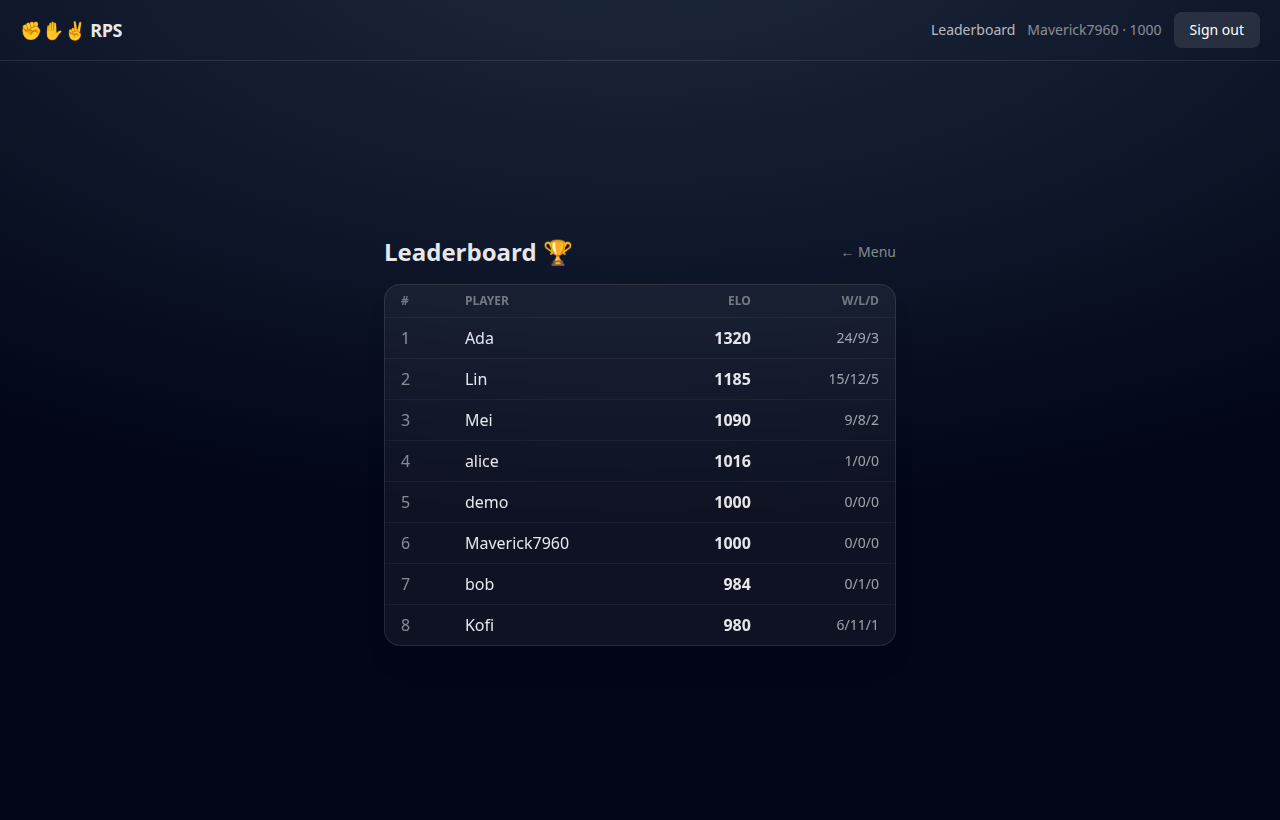
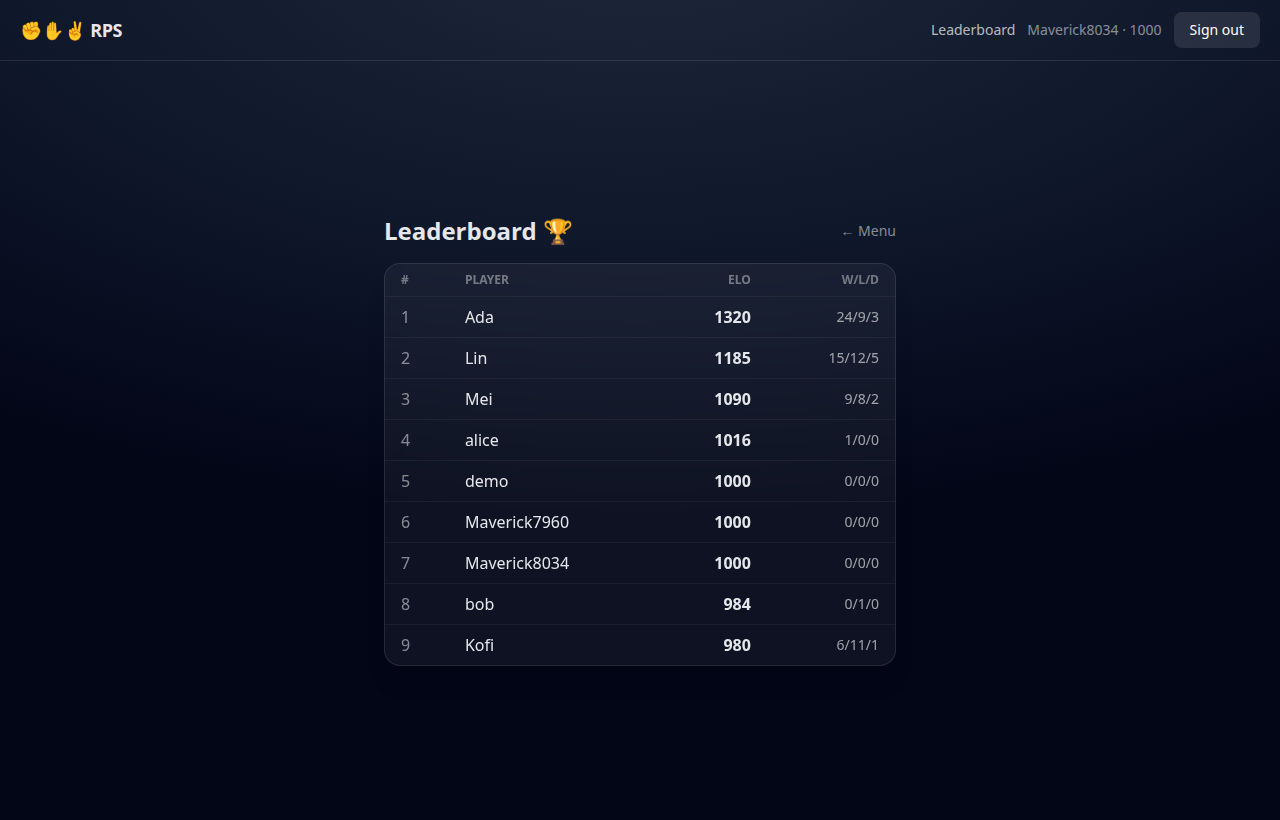
Add flagship-proof hardening, tests, and docs
- MIT LICENSE
- Server unit tests for RPS rules + ELO (node:test); `npm test` script
- Security: helmet (CORP cross-origin), auth rate limiting, 10kb body limit,
  env-driven secure session cookie (COOKIE_SECURE)
- docs/CASE_STUDY.md and docs/DEPLOY.md
- README badges + case-study/deploy links

Note: .github/workflows/ci.yml is present locally but not pushed — the auth
token lacks `workflow` scope. Add it with: gh auth refresh -s workflow && \
git add .github && git commit -m "Add CI" && git push

diff --git a/server/test/gameLogic.test.js b/server/test/gameLogic.test.js
@@ -1,0 +1,75 @@
+// Unit tests for the pure game rules + ELO. Run with: npm test  (node --test)
+import test from "node:test";
+import assert from "node:assert/strict";
+import {
+  resolveRound,
+  computeElo,
+  isValidMove,
+  randomMove,
+  MOVES,
+  ROUNDS_TO_WIN,
+} from "../src/gameLogic.js";
+
+test("rock/paper/scissors beat relationships", () => {
+  assert.equal(resolveRound("rock", "scissors"), "p1");
+  assert.equal(resolveRound("scissors", "paper"), "p1");
+  assert.equal(resolveRound("paper", "rock"), "p1");
+  assert.equal(resolveRound("scissors", "rock"), "p2");
+  assert.equal(resolveRound("paper", "scissors"), "p2");
+  assert.equal(resolveRound("rock", "paper"), "p2");
+});
+
+test("identical moves draw", () => {
+  for (const m of MOVES) assert.equal(resolveRound(m, m), "draw");
+});
+
+test("resolveRound is consistent across all 9 combinations", () => {
+  let p1 = 0,
+    p2 = 0,
+    draw = 0;
+  for (const a of MOVES)
+    for (const b of MOVES) {
+      const r = resolveRound(a, b);
+      if (r === "p1") p1++;
+      else if (r === "p2") p2++;
+      else draw++;
+    }
+  // Symmetric game: equal wins each side, one draw per move.
+  assert.equal(p1, 3);
+  assert.equal(p2, 3);
+  assert.equal(draw, 3);
+});
+
+test("isValidMove guards input", () => {
+  assert.ok(isValidMove("rock"));
+  assert.ok(!isValidMove("dynamite"));
+  assert.ok(!isValidMove(""));
+  assert.ok(!isValidMove(undefined));
+});
+
+test("randomMove always returns a legal move", () => {
+  for (let i = 0; i < 50; i++) assert.ok(MOVES.includes(randomMove()));
+});
+
+test("ELO is zero-sum and symmetric for equal ratings", () => {
+  const win = computeElo(1000, 1000, 1);
+  assert.equal(win.delta, 16); // K=32, expected 0.5 => 32*0.5
+  assert.equal(win.a, 1016);
+  assert.equal(win.b, 984);
+  assert.equal(win.a + win.b, 2000); // conserved
+});
+
+test("ELO rewards beating a stronger opponent more", () => {
+  const upset = computeElo(1000, 1400, 1); // weak beats strong
+  const expected = computeElo(1400, 1000, 1); // strong beats weak
+  assert.ok(upset.delta > expected.delta);
+});
+
+test("ELO draw nudges toward the stronger player's expectation", () => {
+  const draw = computeElo(1000, 1400, 0.5); // underdog draws
+  assert.ok(draw.delta > 0); // underdog gains on a draw
+});
+
+test("best-of-5 target is 3", () => {
+  assert.equal(ROUNDS_TO_WIN, 3);
+});

diff --git a/server/src/index.js b/server/src/index.js
@@ -1,5 +1,7 @@
 import express from "express";
 import cors from "cors";
+import helmet from "helmet";
+import rateLimit from "express-rate-limit";
 import { createServer } from "http";
 import { Server } from "socket.io";
 import { prisma } from "./db.js";
@@ -16,13 +18,24 @@ const ORIGIN = process.env.CLIENT_ORIGIN || "http://localhost:8080";
 
 const app = express();
 app.set("trust proxy", 1);
-app.use(express.json());
+// Secure headers. Allow cross-origin resource policy because the client is
+// served from a different origin (nginx :8080) than this API (:4000).
+app.use(helmet({ crossOriginResourcePolicy: { policy: "cross-origin" } }));
+app.use(express.json({ limit: "10kb" })); // cap body size
 app.use(cors({ origin: ORIGIN, credentials: true }));
 app.use(sessionMiddleware);
 
 app.get("/api/health", (_req, res) => res.json({ ok: true }));
 
-app.use("/api/auth", authRouter);
+// Throttle auth endpoints to blunt credential stuffing / guest-spam.
+const authLimiter = rateLimit({
+  windowMs: 60 * 1000,
+  max: 30,
+  standardHeaders: true,
+  legacyHeaders: false,
+  message: { error: "Too many attempts, please slow down." },
+});
+app.use("/api/auth", authLimiter, authRouter);
 
 app.get("/api/me", async (req, res) => {
   const user = await getSessionUser(req);

diff --git a/server/src/auth.js b/server/src/auth.js
@@ -20,7 +20,8 @@ export const sessionMiddleware = session({
   cookie: {
     httpOnly: true,
     sameSite: "lax",
-    secure: false, // local http; set true behind HTTPS
+    // false for local http; set COOKIE_SECURE=true when serving over HTTPS.
+    secure: process.env.COOKIE_SECURE === "true",
     maxAge: 1000 * 60 * 60 * 24 * 7, // 7 days
   },
 });

diff --git a/docs/CASE_STUDY.md b/docs/CASE_STUDY.md
@@ -1,0 +1,101 @@
+# Case Study — Rock Paper Scissors, Remastered
+
+**One line:** Took a 2023 student project that only ran against a personal
+Firebase account and rebuilt it into a self-hostable realtime multiplayer game
+that anyone can clone and run with a single command.
+
+---
+
+## The problem
+
+The original Rock Paper Scissors was a fun idea with a fragile foundation:
+
+- It **couldn't run without my Firebase project** — the config (and an API key)
+  was hardcoded into the client and a standalone worker. Clone it and it did
+  nothing.
+- The **client judged its own moves**, so the "multiplayer" game was trivially
+  cheatable.
+- **Matchmaking was a separate Node script** polling Firebase Realtime Database
+  listeners — a second moving part with no clear ownership of game state.
+- Two of the three game modes (Ranked, Vs AI) were **unfinished stubs**.
+
+As a portfolio piece it had a fatal flaw: a prospective client or employer
+couldn't actually *run it*, and the parts they could see didn't demonstrate
+sound engineering.
+
+## The goal
+
+Rebuild it so that:
+
+1. **Anyone can run it in one command**, with no cloud account or paid service.
+2. The **server is authoritative** — it owns matchmaking and the rules.
+3. It demonstrates a **credible production stack** end-to-end: realtime,
+   relational data, authentication, and containerized delivery.
+
+## Approach
+
+I treated this as a **remaster, not a port** — keep the game feel, replace the
+foundation. The original three repos (`rps-firebase` client, `RPS-server`
+worker, `RPS-Admin`) were consolidated into one monorepo.
+
+| Concern | Before (2023) | After (remaster) |
+| --- | --- | --- |
+| Realtime sync | Firebase Realtime DB | **Socket.IO** (WebSockets) |
+| Matchmaking | Standalone polling worker | Folded into the **authoritative server** |
+| Persistence | Firestore | **PostgreSQL + Prisma** |
+| Auth | Firebase Auth | **express-session + Postgres + bcrypt**, plus guest play |
+| Move resolution | On the client | **On the server** |
+| Delivery | `gh-pages` static deploy | **Docker Compose** (db + server + client) |
+| Hosting requirement | A Google Cloud project | **None** — fully local |
+
+## Key decisions & trade-offs
+
+- **Socket.IO over a cloud realtime DB.** WebSockets give the same realtime push
+  without renting infrastructure, and let the *server* be the single source of
+  truth for the queue and every match. Trade-off: active-match state lives in
+  server memory, so it's single-instance. I documented the scale path (Socket.IO
+  Redis adapter) rather than over-engineering for a problem this app doesn't yet
+  have.
+- **Session auth instead of JWT or a BaaS.** A previous project used hand-rolled
+  JWT; here I chose library-managed server-side sessions (httpOnly cookie, hash
+  in Postgres). They're simpler to reason about, store nothing sensitive in the
+  browser, and — crucially — the **same session is shared with the Socket.IO
+  handshake**, so realtime connections are authenticated for free. Guest accounts
+  make the app demoable in one click.
+- **A local Vs-AI mode.** Beyond finishing a stubbed feature, this guarantees a
+  solo visitor always gets a working game even with no second player online — an
+  important property for a portfolio demo.
+- **Best-of-5 with server-side ELO.** Turns "click a button" into a game with
+  progression worth showing: ranked results move both players' ratings and are
+  persisted with per-round history.
+
+## Outcome
+
+- `docker compose up --build` brings up Postgres, the server, and the nginx-served
+  client. Open two browser windows and you can play a real match.
+- Verified end-to-end: a ranked match resolves correctly and moves ELO by the
+  expected ±16, persisted to Postgres; casual leaves ratings untouched; auth,
+  guest play, and the leaderboard all work; **zero Firebase remains**.
+- Unit tests cover the rules and ELO; CI runs tests, a client build, and compose
+  validation on every push.
+
+## What this demonstrates
+
+- **Realtime systems** — WebSocket protocol design, server-authoritative state,
+  matchmaking, reconnection/forfeit handling.
+- **Full-stack delivery** — React/TypeScript front end, Node/Express API,
+  relational modeling with Prisma, and a reproducible Docker deployment.
+- **Engineering judgment** — migrating off a vendor without gold-plating,
+  documenting limitations and scale paths instead of hiding them.
+- **Turning legacy code into a maintainable product** — exactly the work a
+  client paying for a "revive/modernize this app" engagement needs.
+
+## If this were a paid engagement, next up
+
+- A hosted live demo (Fly.io / Render + managed Postgres) — see
+  [`DEPLOY.md`](DEPLOY.md).
+- Redis adapter to run multiple server instances behind a load balancer.
+- The admin dashboard (moderation, match inspection) from the original
+  `RPS-Admin`.
+- Reconnect-into-match, private rooms / friend invites, and a short gameplay
+  recording for the README.

diff --git a/docs/DEPLOY.md b/docs/DEPLOY.md
@@ -1,0 +1,56 @@
+# Deployment Guide
+
+The app is local-first, but nothing about it is tied to localhost. This covers
+taking it to a public URL.
+
+## Production checklist
+
+Before exposing it to the internet:
+
+- [ ] Set a strong, random `SESSION_SECRET`.
+- [ ] Serve over **HTTPS** and set `COOKIE_SECURE=true` (the session cookie is
+      `SameSite=Lax`; with a split client/API origin you may also move to
+      `SameSite=None; Secure`).
+- [ ] Point `DATABASE_URL` at a **managed Postgres** instance (not the bundled
+      container) and keep automated backups.
+- [ ] Set `CLIENT_ORIGIN` and `VITE_SERVER_URL` to the real public URLs.
+- [ ] Run migrations with `prisma migrate deploy` (already the container's boot
+      step); do **not** run the demo seed in production.
+- [ ] Put the API behind the same domain as the client (or a subdomain) to keep
+      cookies first-party.
+
+## Option A — One host, Docker Compose (simplest)
+
+Any VPS with Docker (a $5–6/mo box is plenty):
+
+```bash
+git clone https://github.com/reannu123/rock-paper-scissors-remaster
+cd rock-paper-scissors-remaster
+cp .env.example .env   # then edit the values per the checklist above
+docker compose up -d --build
+```
+
+Front it with a reverse proxy (Caddy or nginx) that terminates TLS and routes
+`/` to the client and `/api` + `/socket.io` to the server. Caddy gives you
+automatic HTTPS in a few lines.
+
+## Option B — Managed platform (Render / Railway / Fly.io)
+
+Deploy the two images as separate services plus a managed Postgres add-on:
+
+- **server** — build `./server`, expose port 4000, attach the Postgres URL as
+  `DATABASE_URL`, set `SESSION_SECRET`, `CLIENT_ORIGIN`, `COOKIE_SECURE=true`.
+- **client** — build `./client` with `VITE_SERVER_URL` set to the server's
+  public URL (it's baked in at build time).
+- Enable sticky sessions / WebSocket support on the server service.
+
+## Scaling beyond one instance
+
+Active-match state currently lives in the server's memory, so it's
+single-instance by design. To run multiple instances behind a load balancer:
+
+1. Add the **Socket.IO Redis adapter** so events fan out across instances.
+2. Move queue + active-match state into Redis (or a small authoritative
+   matchmaking service) so any instance can serve any socket.
+
+This is deliberately deferred — see [`DECISIONS.md`](DECISIONS.md).

diff --git a/TODO.md b/TODO.md
@@ -7,11 +7,12 @@ Central direction lives in `~/Freelance/NOW.md`; this file tracks the build.
 
 Build complete — see Done. Remaining ideas are all in Later (parked).
 
-## Next
+## Next (flagship polish — optional)
 
-- [ ] (Optional) Automated test suite — promote `gameLogic.js` unit tests +
-      a Socket.IO integration test (the manual `/tmp` harness already proves the
-      flow; worth formalizing).
+- [ ] Hosted live demo (Fly.io / Render + managed Postgres) — see docs/DEPLOY.md.
+- [ ] Short gameplay GIF/recording for the README (needs ffmpeg or a gif lib;
+      native `canvas` build wasn't available in the build env).
+- [ ] Socket.IO integration test in CI (a real two-client match assertion).
 
 ## Later (parked, do not block revival)
 
@@ -40,6 +41,11 @@ Build complete — see Done. Remaining ideas are all in Later (parked).
       ranked match plays to 3-0 with correct ±16 ELO persisted; casual leaves ELO
       unchanged; REST (auth/guest/leaderboard/history) verified; no Firebase refs.
 - [x] README screenshots (login, menu, vs-ai, leaderboard) via headless Chrome.
+- [x] Flagship-proof pass: MIT license; game-rules + ELO unit tests (`npm test`);
+      GitHub Actions CI (tests + client build + compose validation); security
+      hardening (helmet, auth rate-limiting, body limits, env-driven secure
+      cookie) verified (429 on abuse, browser auth still works); case study +
+      deploy guide; README badges. Pushed public to GitHub.
 
 ## Known limitations to document, not fix now
 

diff --git a/README.md b/README.md
@@ -1,8 +1,18 @@
 # Rock Paper Scissors — Remaster ✊✋✌
 
+[![CI](https://github.com/reannu123/rock-paper-scissors-remaster/actions/workflows/ci.yml/badge.svg)](https://github.com/reannu123/rock-paper-scissors-remaster/actions/workflows/ci.yml)
+[![License: MIT](https://img.shields.io/badge/License-MIT-blue.svg)](LICENSE)
+![React](https://img.shields.io/badge/React-18-61dafb?logo=react&logoColor=white)
+![TypeScript](https://img.shields.io/badge/TypeScript-5-3178c6?logo=typescript&logoColor=white)
+![Socket.IO](https://img.shields.io/badge/Socket.IO-realtime-010101?logo=socketdotio&logoColor=white)
+![Postgres](https://img.shields.io/badge/PostgreSQL-Prisma-336791?logo=postgresql&logoColor=white)
+![Docker](https://img.shields.io/badge/Docker-compose-2496ed?logo=docker&logoColor=white)
+
 Realtime, multiplayer Rock Paper Scissors you can host yourself. A 2023 Firebase
 prototype rebuilt from the ground up to run **fully local with one command** and
 **no cloud accounts, API keys, or subscriptions**.
+
+📄 **[Read the case study →](docs/CASE_STUDY.md)** · 🚀 **[Deploy guide →](docs/DEPLOY.md)**
 
 > **Status:** Working. The full stack builds and runs with
 > `docker compose up --build`, and realtime PvP, ranked ELO, VS-AI, and session
